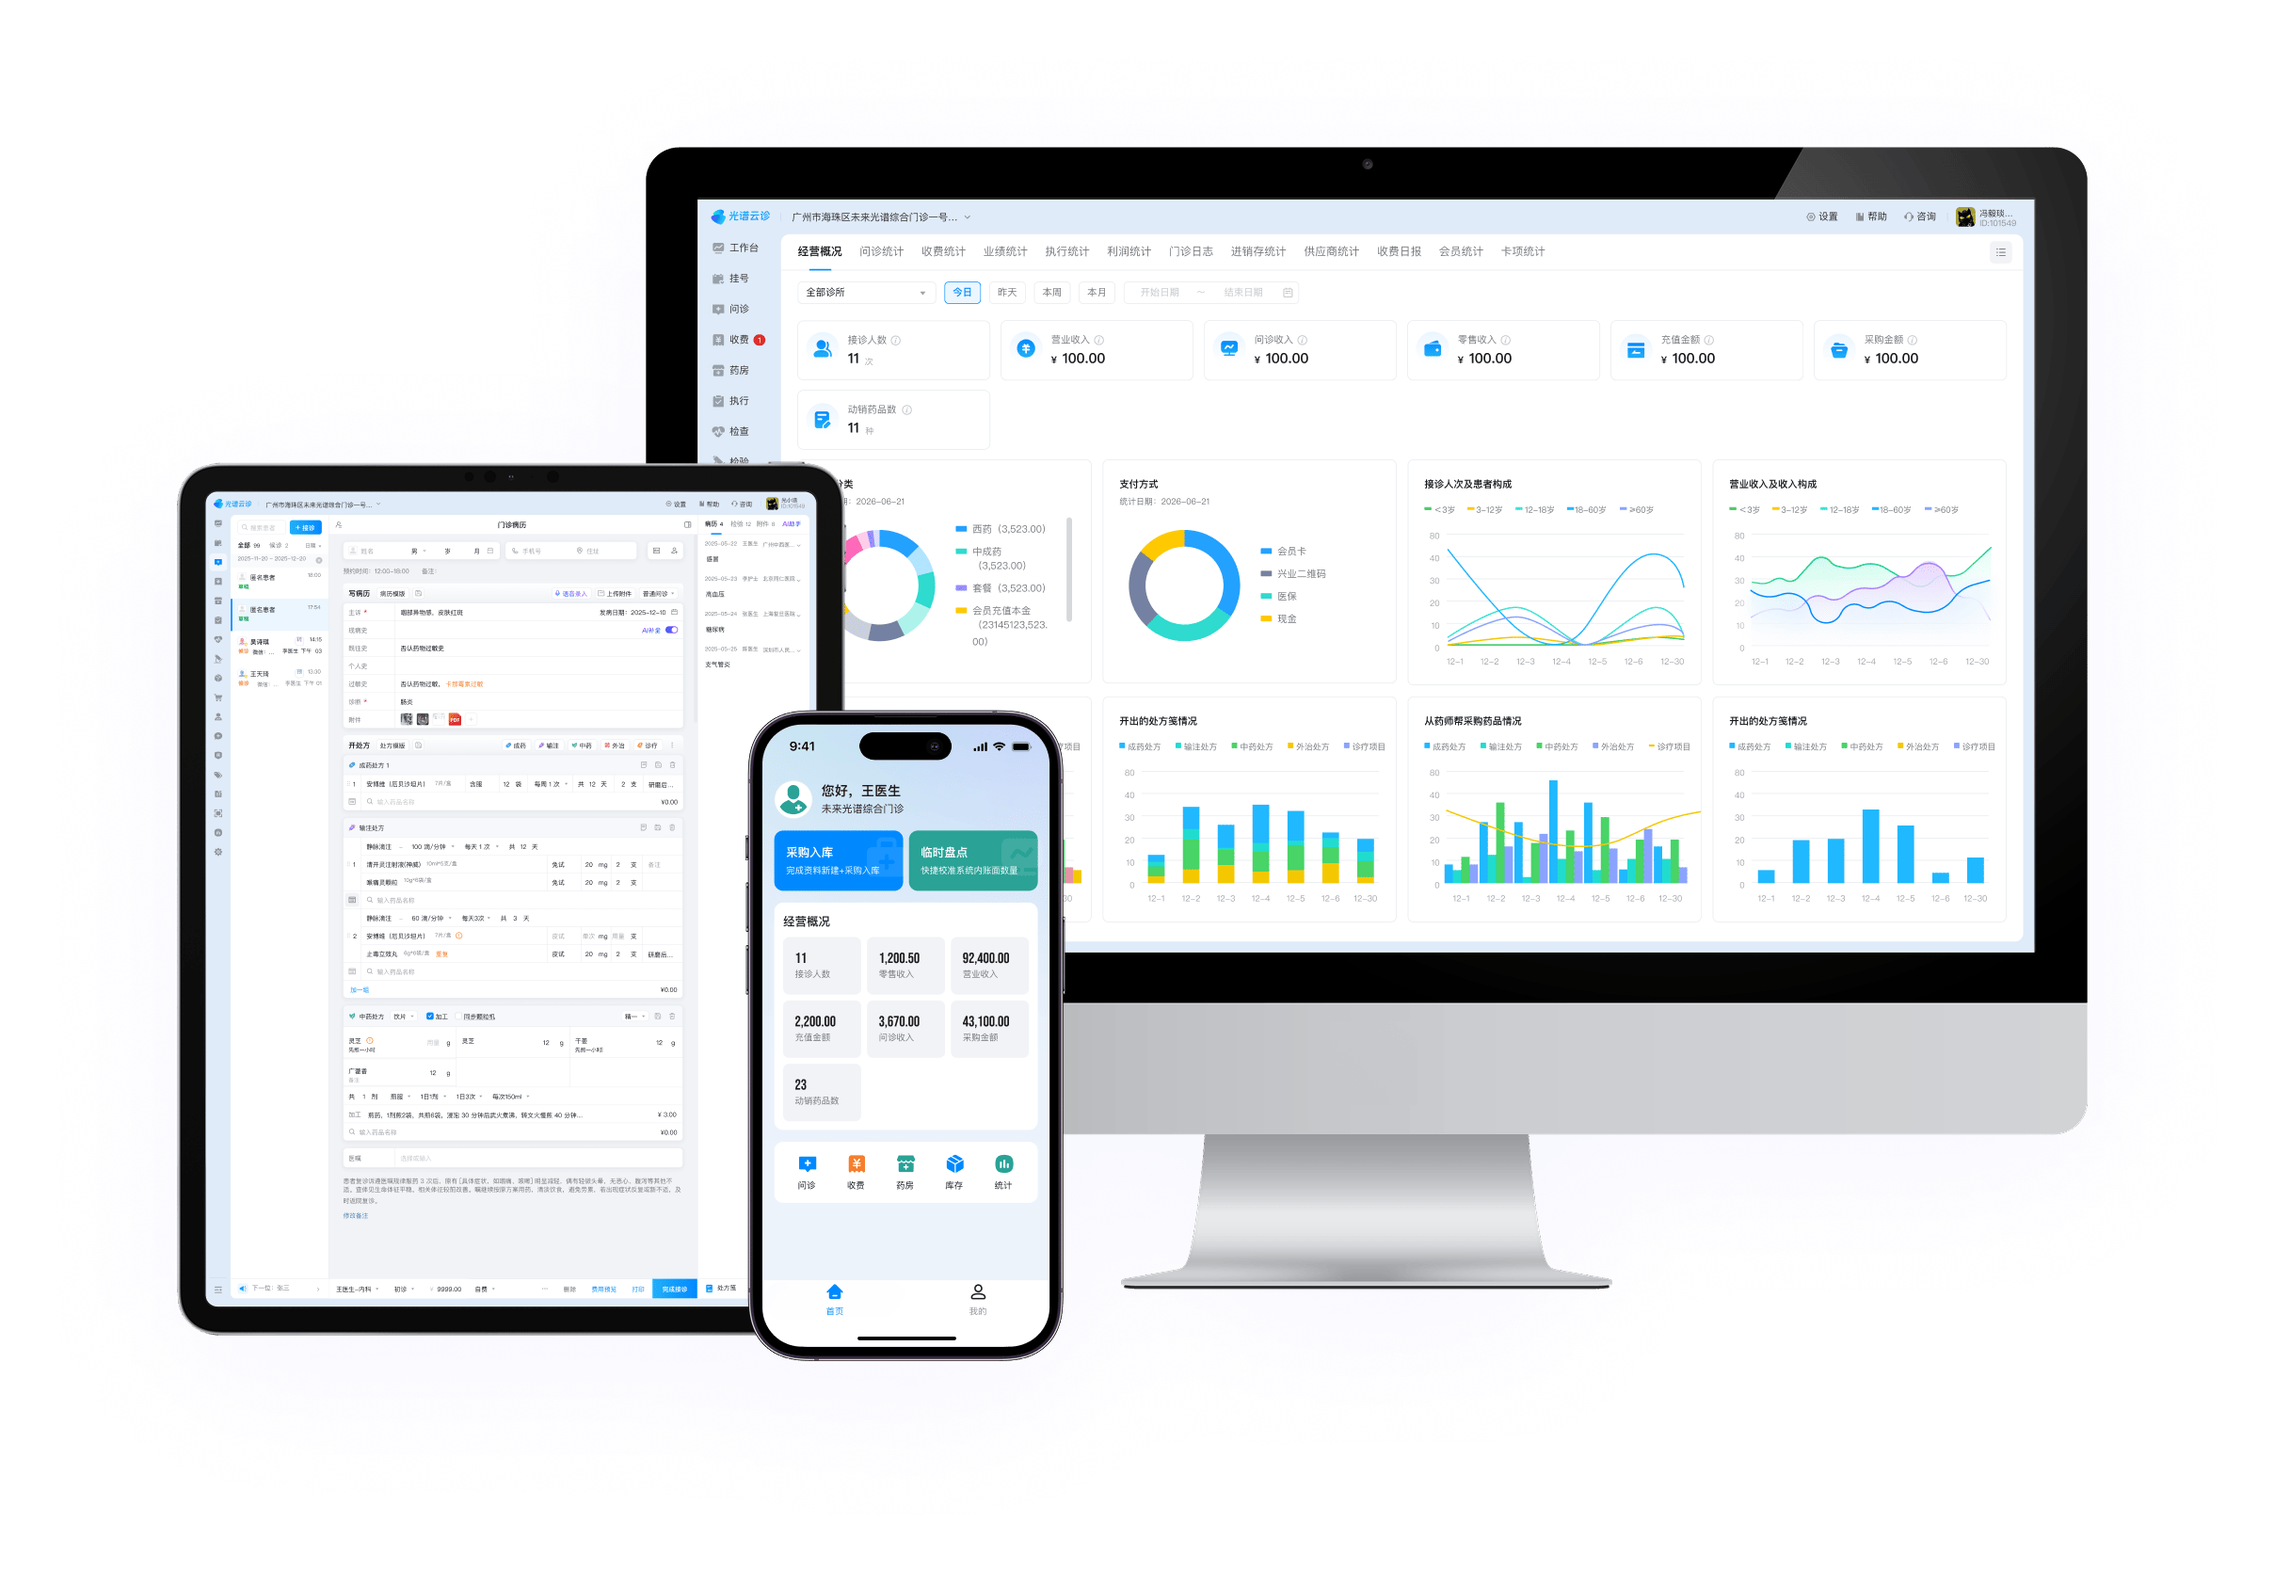
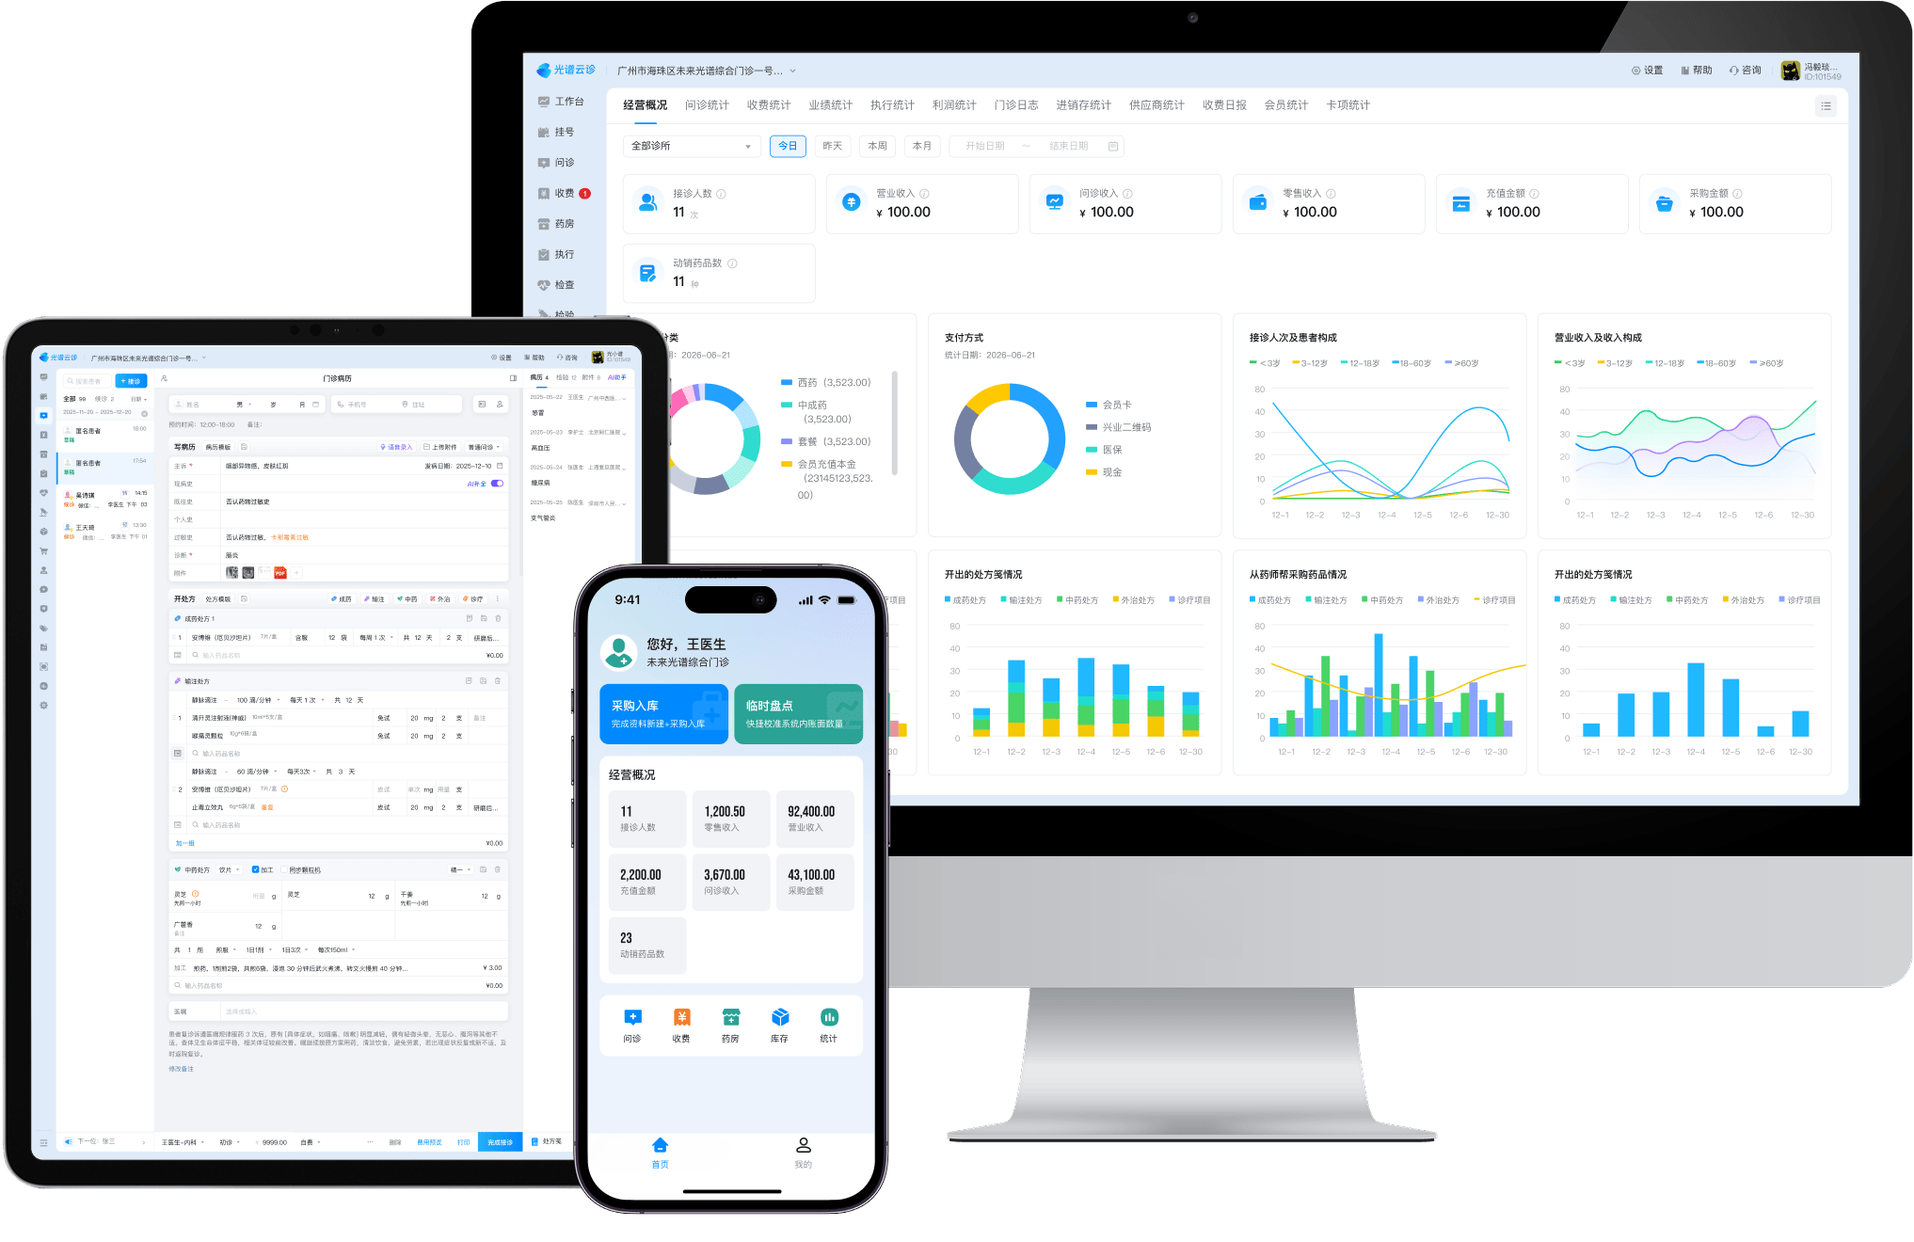
Fix hero layout overlap and update header mockup asset.
Align hero background layer margins with transparent header, refresh image_header.png dimensions, and widen logo link area per design preview.

diff --git a/src/components/sections/HeroSection.tsx b/src/components/sections/HeroSection.tsx
@@ -8,10 +8,12 @@ const LAUREL_RIGHT = "/assets/figma-cache/laurel-right.svg";
 const FEATURES = ["0 打字", "AI辅助问诊", "医保对接", "一键入库"];
 
 const HERO_MOCKUP_SRC = "/assets/image_header.png";
+const HERO_MOCKUP_WIDTH = 2034;
+const HERO_MOCKUP_HEIGHT = 1320;
 
 export function HeroSection() {
   return (
-    <section className="relative -mt-[72px] overflow-hidden pt-[calc(72px+2rem)] pb-16 md:pt-[calc(72px+3rem)] md:pb-24">
+    <section className="relative overflow-visible pt-[calc(72px+2rem)] pb-16 md:pt-[calc(72px+3rem)] md:pb-24">
       {/* 背景图 bg_header.png：延伸至透明顶栏下方 */}
       <div className="hero-header-bg-layer" aria-hidden />
 
@@ -73,8 +75,8 @@ export function HeroSection() {
               <Image
                 src={HERO_MOCKUP_SRC}
                 alt="光谱云诊产品界面预览"
-                width={2416}
-                height={1686}
+                width={HERO_MOCKUP_WIDTH}
+                height={HERO_MOCKUP_HEIGHT}
                 className="h-auto w-full object-contain"
                 priority
                 sizes="(max-width: 1024px) 100vw, 58vw"

diff --git a/src/styles/hero-bg.css b/src/styles/hero-bg.css
@@ -1,21 +1,25 @@
 /**
  * Hero 顶部渐变背景 bg_header.png (5760×1956)
+ * - 与顶栏同高（72px）：层盒下移 72px，背景图上移 72px，视觉仍贴页面顶
  * - 视口 < 1200px：background-size 1920px，水平居中，不随页面变窄缩小
  * - 视口 ≥ 1200px：background-size 100% auto，等比铺满宽度
  */
 .hero-header-bg-layer {
+  --hero-header-offset: 72px;
   position: absolute;
   left: 0;
   right: 0;
-  top: 0;
+  top: var(--hero-header-offset);
+  margin-top: -144px;
+  margin-bottom: 0;
   z-index: 0;
   width: 100%;
-  min-height: 653px;
+  min-height: calc(653px + var(--hero-header-offset));
   overflow: hidden;
   pointer-events: none;
   background-image: url("/assets/bg_header.png");
   background-repeat: no-repeat;
-  background-position: center top;
+  background-position: center calc(-1 * var(--hero-header-offset));
   background-size: 1920px auto;
 }
 

diff --git a/src/components/sections/SiteHeader.tsx b/src/components/sections/SiteHeader.tsx
@@ -61,7 +61,7 @@ export function SiteHeader() {
       <div className="relative z-10 flex h-[72px] w-full items-center gap-4 px-[var(--page-margin-x)] lg:px-6">
         <Link
           href="/"
-          className="flex shrink-0 items-center"
+          className="flex w-[222px] shrink-0 items-center"
           aria-label="光谱云诊"
         >
           <Image
